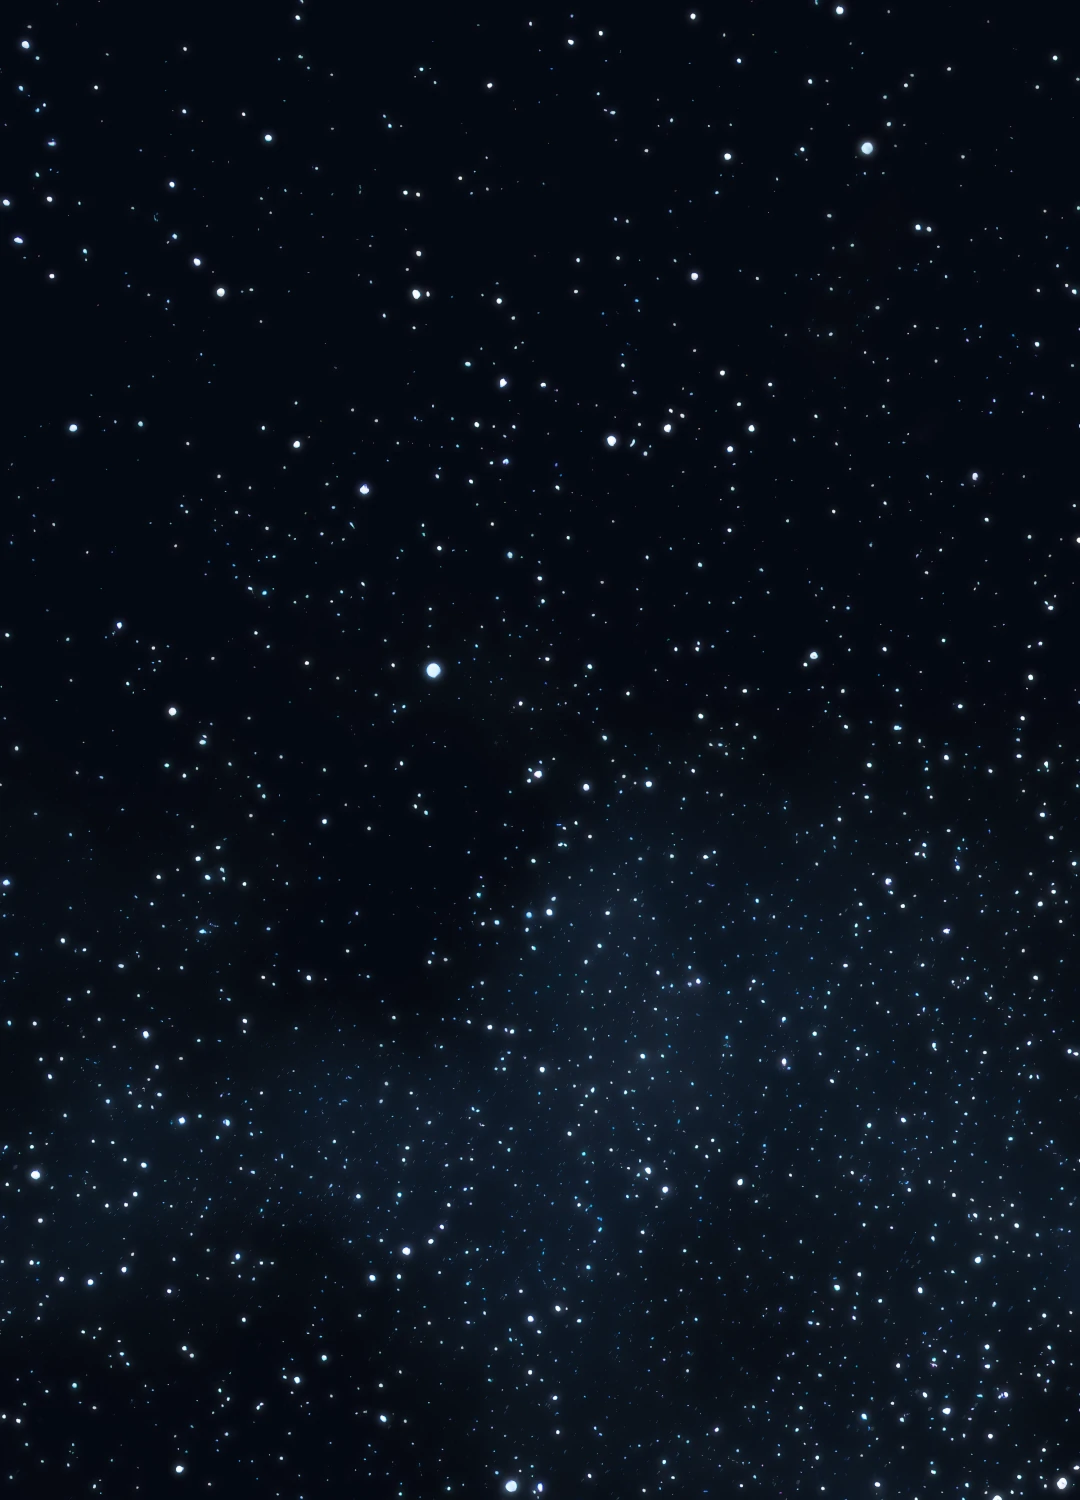
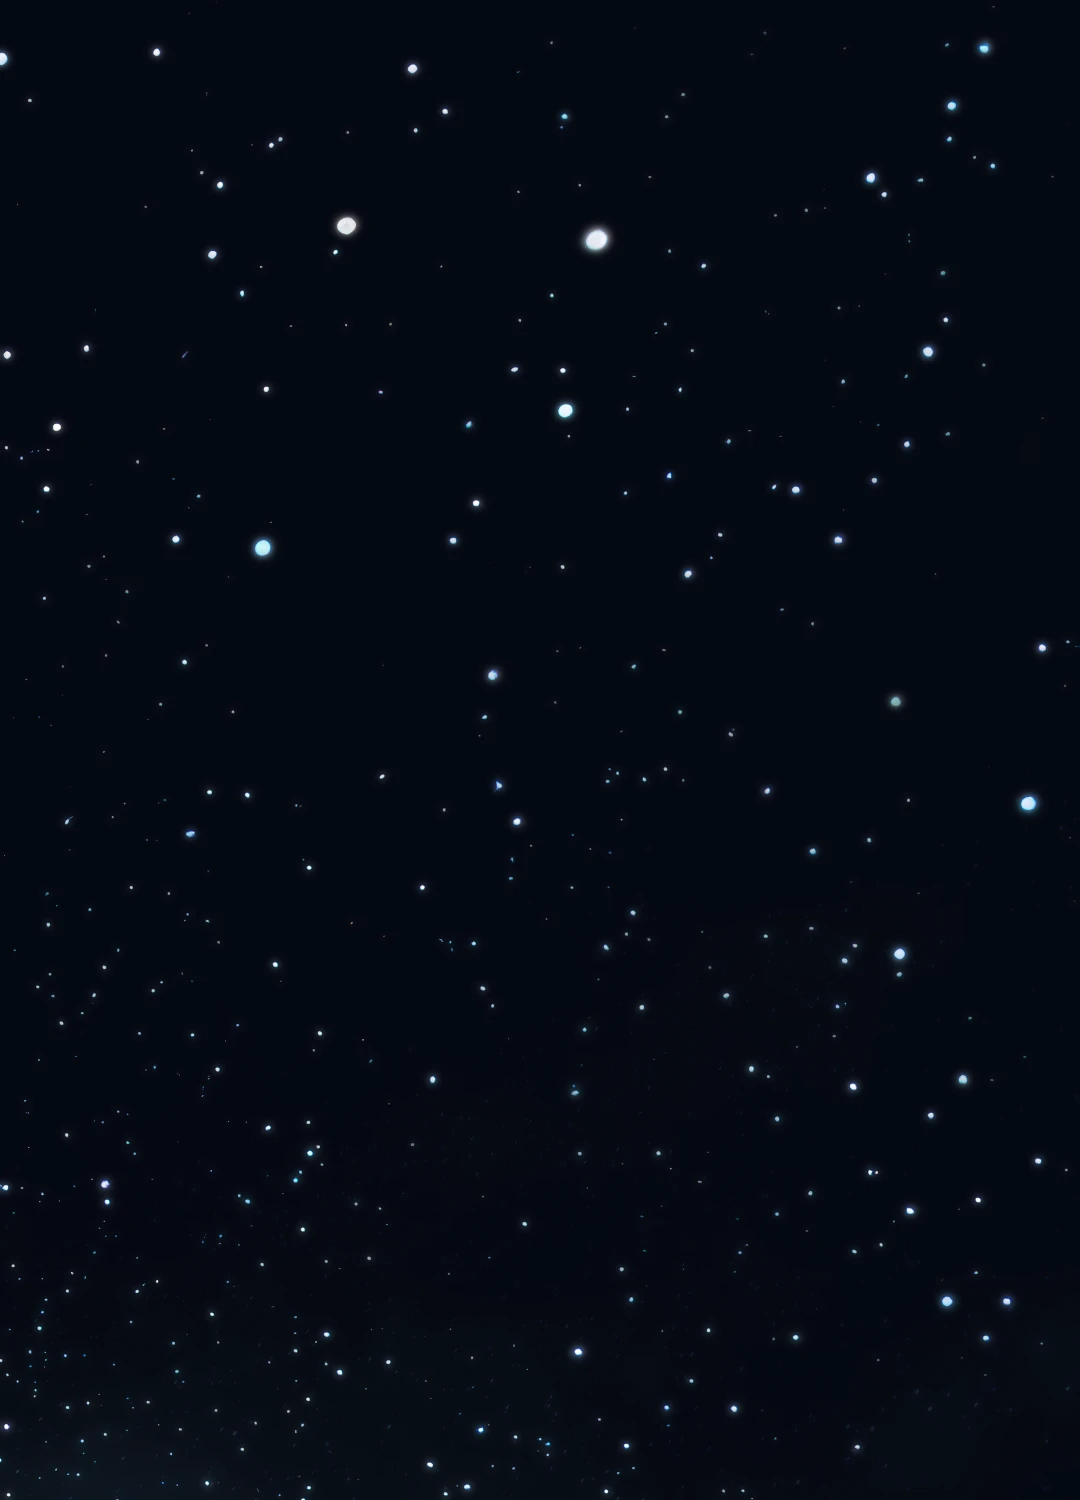
Телефон: небо из спокойной части стока; кнопки под заголовком уменьшаются, а не переносятся

diff --git a/assets/site.css b/assets/site.css
@@ -477,6 +477,21 @@ button { font: inherit; color: inherit; }
   .switch .half:last-child { border-radius: 0 6px 6px 0; }
   .btn svg, .half svg { width: 17px; height: 17px; }
   .btn.speed { padding-left: 5px; gap: 4px; }
+  /* три кнопки не помещаются в строку (узкий экран или крупный масштаб в системе) — не переносятся, а уменьшаются (Irka, 2026-11-28) */
+  .hero { container-type: inline-size; }   /* на самом .buttons нельзя: внутри колонки .byline ряд тогда считает высоту как при нулевой ширине */
+}
+@container (max-width: 306px) {
+  .buttons { gap: 6px; }
+  .btn, .half { height: 30px; padding: 2px 6px 0; font-size: 12.5px; }
+  .switch .half { width: 30px; padding-left: 0; padding-right: 0; }
+  .btn svg, .half svg { width: 15px; height: 15px; }
+  .btn.speed { padding-left: 4px; gap: 3px; }
+}
+@container (max-width: 271px) {
+  .buttons { gap: 5px; }
+  .btn, .half { height: 28px; padding: 2px 5px 0; font-size: 11.5px; }
+  .switch .half { width: 27px; }
+  .btn svg, .half svg { width: 14px; height: 14px; }
 }
 
 /* плавающий переключатель темы: десктоп — левый нижний угол;
